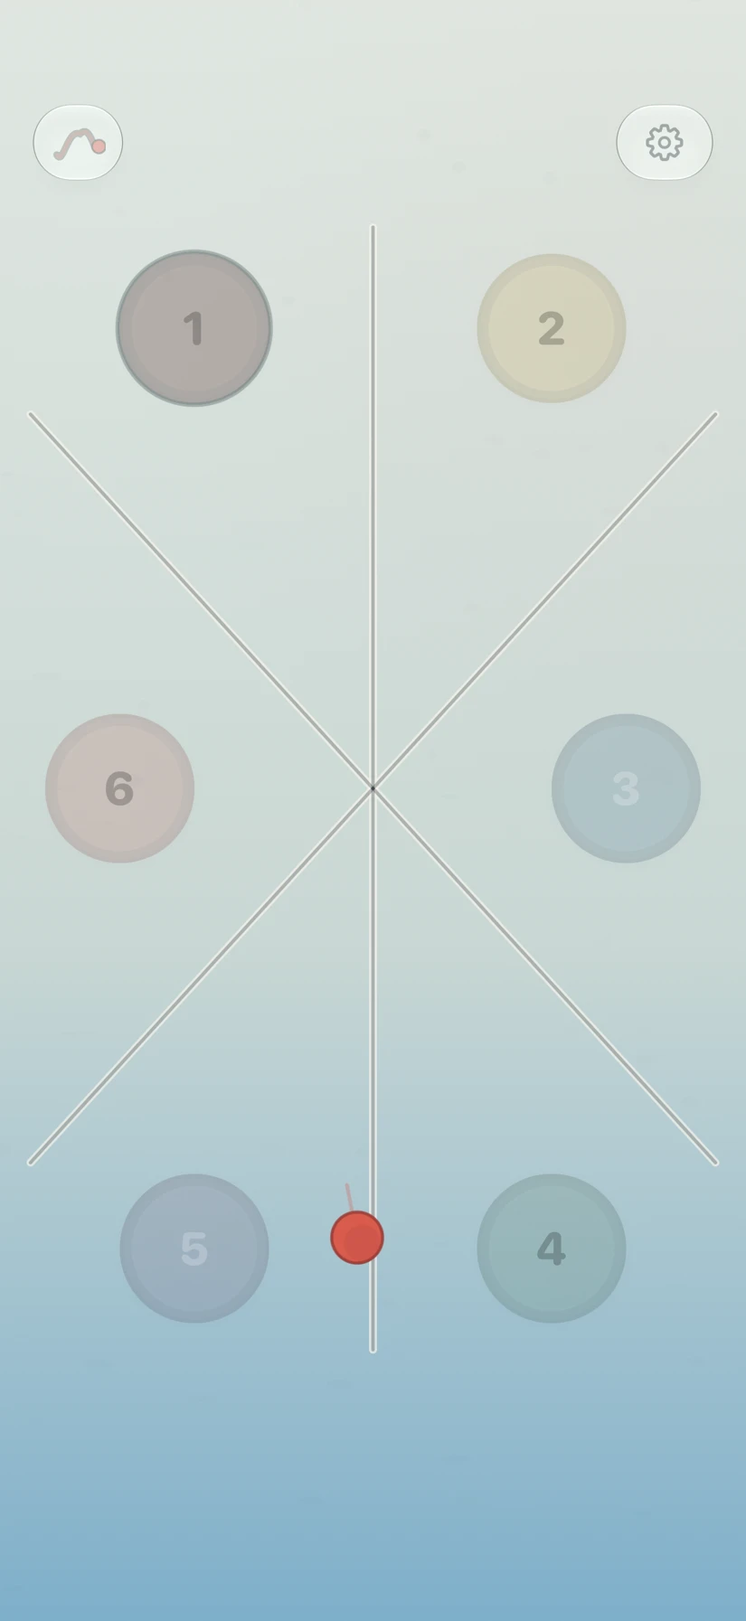
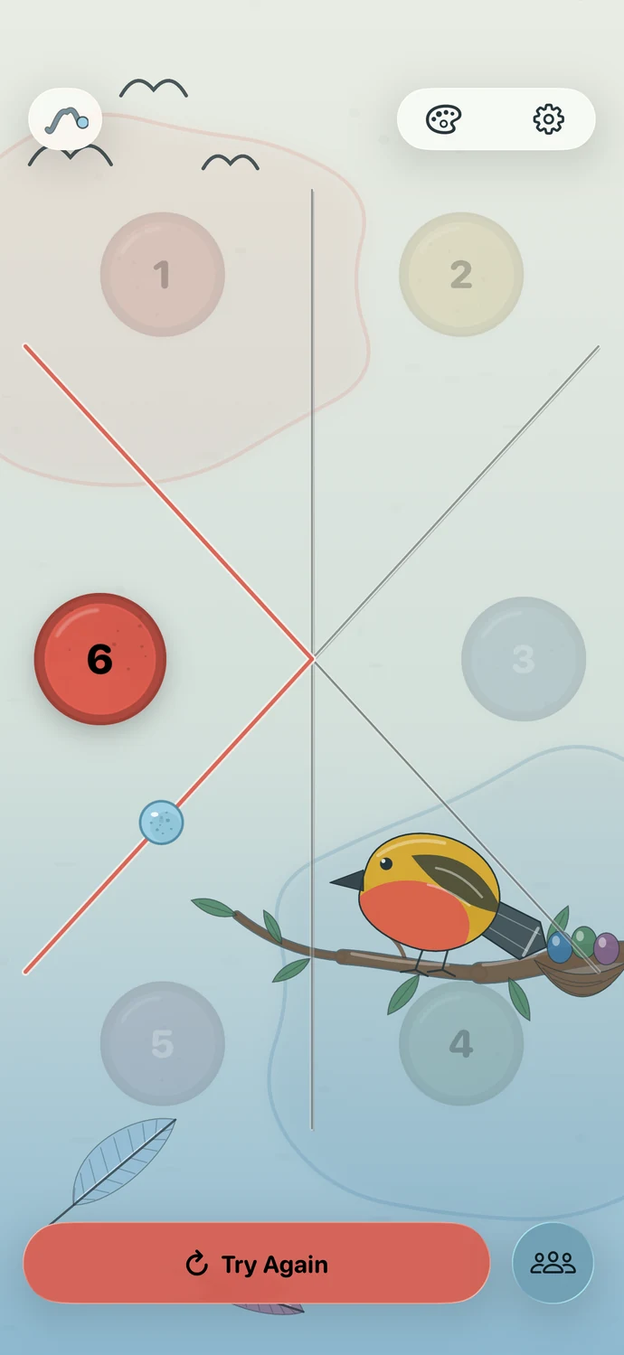
Refresh Who’s First features and native screenshots

diff --git a/site/whos-first/index.html b/site/whos-first/index.html
@@ -1,6 +1,10 @@
 <!DOCTYPE html>
 
-<html lang="en"><head><meta charset="utf-8"/><meta content="width=device-width, initial-scale=1" name="viewport"/><title>Who’s First? | Choose your first player</title><meta content="Quickly and fairly choose who goes first. Pick with fingers, taps, or Pinball, with options for larger groups. Free. No subscription." name="description"/><link href="https://brianrenshaw.app/whos-first/" rel="canonical"/><meta content="website" property="og:type"/><meta content="Who’s First? | Choose your first player" property="og:title"/><meta content="Choose who goes first. Get on with the game. A free, fair first-player picker with options for larger groups. No subscription." property="og:description"/><meta content="https://brianrenshaw.app/whos-first/" property="og:url"/><meta content="https://brianrenshaw.app/whos-first/assets/icon-native.png" property="og:image"/><link href="/whos-first/assets/icon-native.png" rel="icon"/><link href="/whos-first/assets/site.css" rel="stylesheet"/><link href="/assets/family.css" rel="stylesheet"/><link href="/assets/product-preview.css" rel="stylesheet"/><script defer="" src="/assets/product-preview.js"></script></head><body class="app-chooser"><a class="skip-link" href="#main">Skip to content</a><header class="family-header"><a class="family-brand" href="/whos-first/"><img alt="" height="36" src="/whos-first/assets/icon-native.png" width="36"/>Who’s First?</a><nav aria-label="Main navigation"><a class="portfolio-home-link" href="/">← Brian’s homepage</a><a href="/whos-first/support/">Support</a></nav></header><main class="wf-page" id="main" tabindex="-1"><section class="wf-hero"><div><img alt="Who’s First? Five Seats, One Table app icon" class="wf-icon" height="88" src="assets/icon-native.png" width="88"/><p class="eyebrow">Free. No subscription.</p><h1>Choose who goes first.<br/>Get on with the game.</h1><p class="wf-lead">Quickly and fairly pick your first player. Use fingers on the screen for up to five people, or choose a mode with room for a larger group.</p><div aria-hidden="true" class="wf-dots"><i></i><i></i><i></i><i></i><i></i></div><a class="wf-store" href="https://apps.apple.com/app/id6806757289">Download on the App Store <span aria-hidden="true">↗</span></a><p class="wf-meta">For iPhone and iPad · iOS 26 or later<br/>No accounts, ads, or tracking.</p></div><figure class="wf-hero-art"><img alt="The current Who’s First? app: colored participant rings on its watercolor board" height="1500" src="assets/chooser-current.webp" width="690"/><figcaption>Chooser · four fingers, one fair choice.</figcaption></figure></section>
-<section aria-labelledby="modes-title" class="wf-modes"><div class="wf-section-intro"><p class="eyebrow">A choice for your whole group</p><h2 id="modes-title">Five fingers or a bigger group.</h2><p>Start with Chooser for two to five people. For a larger group, use Tap In or Pinball from the mode menu.</p></div><div class="product-preview mode-preview" data-product-preview=""><div aria-label="Mode preview" class="preview-tabs" data-preview-tabs="" hidden=""><button aria-controls="mode-preview-chooser" id="mode-preview-tab-chooser" type="button">Chooser</button><button aria-controls="mode-preview-tap" id="mode-preview-tab-tap" type="button">Tap In</button><button aria-controls="mode-preview-pinball" id="mode-preview-tab-pinball" type="button">Pinball</button></div><div data-preview-stage=""><div data-preview-panel="" id="mode-preview-chooser"><article class="wf-mode"><span class="mode-label">01 · Fingers down</span><h3>Chooser</h3><p>Two to five people hold a finger on the screen. After a short buildup, one ring marks who goes first.</p><figure><img alt="Four colorful rings in Chooser" height="1500" loading="lazy" src="assets/chooser-current.webp" width="690"/></figure></article></div><div data-preview-panel="" id="mode-preview-tap"><article class="wf-mode"><span class="mode-label">02 · Take your turn</span><h3>Tap In</h3><p>Each person taps once to join. When everyone’s in, pick from the group. Room for up to 50 players.</p><figure><img alt="Numbered player pieces in Tap In" height="1500" loading="lazy" src="assets/tap-in-current.webp" width="690"/></figure></article></div><div data-preview-panel="" id="mode-preview-pinball"><article class="wf-mode"><span class="mode-label">03 · Give it a flick</span><h3>Pinball</h3><p>Two to twelve people tap near their seats. Flick the ball and follow the bounces to your first player. Every seat has an equal chance.</p><figure><img alt="Pinball’s numbered seats and divided playing surface" height="1500" loading="lazy" src="assets/pinball-current.webp" width="690"/></figure></article></div></div></div></section>
-<section aria-labelledby="worlds-title" class="wf-worlds"><div><p class="eyebrow">Eight visual worlds</p><h2 id="worlds-title">Choose a theme for each mode.</h2><p>Soft watercolor, jewel colors, warm parchment, and more. Each world changes the board and its pieces together.</p><div aria-hidden="true" class="wf-palette"><span style="background:#C9D7D4"></span><span style="background:#A5353C"></span><span style="background:#25A047"></span><span style="background:#dcc394"></span><span style="background:#bb7551"></span><span style="background:#648858"></span><span style="background:#251a2d"></span><span style="background:#e7b54a"></span></div><p>Choose a look you enjoy in Settings. The app stays focused on picking your first player.</p></div><figure><img alt="The app’s eight visual worlds in Settings" height="1500" loading="lazy" src="assets/worlds-current.webp" width="690"/></figure></section>
-<section class="wf-closing"><p class="eyebrow">Ready for game night</p><h2>Choose your first player.</h2><p>Free, with no subscription, accounts, or ads. Works offline, with support for VoiceOver, larger text, and reduced motion.</p><a class="wf-store" href="https://apps.apple.com/app/id6806757289">Download on the App Store <span aria-hidden="true">↗</span></a></section></main><footer class="family-footer"><span>© 2026 Brian Renshaw</span><nav aria-label="Footer"><a class="portfolio-home-link" href="/">← Brian’s homepage</a><a href="/whos-first/support/">Support</a><a href="/whos-first/privacy/">Privacy</a><a href="mailto:contact@brianrenshaw.app">Contact</a></nav></footer></body></html>
+<html lang="en"><head><meta charset="utf-8"/><meta content="width=device-width, initial-scale=1" name="viewport"/><title>Who’s First? | Choose your first player</title><meta content="Choose who goes first with fingers, taps, or Pinball. Fourteen illustrated worlds, groups of up to 50, and quick mode shortcuts. Free for iPhone and iPad." name="description"/><link href="https://brianrenshaw.app/whos-first/" rel="canonical"/><meta content="website" property="og:type"/><meta content="Who’s First? | Choose your first player" property="og:title"/><meta content="Three ways to pick your first player, fourteen illustrated worlds, and room for up to 50 people. Free for iPhone and iPad. No subscription." property="og:description"/><meta content="https://brianrenshaw.app/whos-first/" property="og:url"/><meta content="https://brianrenshaw.app/whos-first/assets/icon-native.png" property="og:image"/><link href="/whos-first/assets/icon-native.png" rel="icon"/><link href="/whos-first/assets/site.css" rel="stylesheet"/><link href="/assets/family.css" rel="stylesheet"/><link href="/assets/product-preview.css" rel="stylesheet"/><script defer="" src="/assets/product-preview.js"></script></head><body class="app-chooser"><a class="skip-link" href="#main">Skip to content</a><header class="family-header"><a class="family-brand" href="/whos-first/"><img alt="" height="36" src="/whos-first/assets/icon-native.png" width="36"/>Who’s First?</a><nav aria-label="Main navigation"><a class="portfolio-home-link" href="/">← Brian’s homepage</a><a href="/whos-first/support/">Support</a></nav></header><main class="wf-page" id="main" tabindex="-1"><section class="wf-hero"><div><img alt="Who’s First? Five Seats, One Table app icon" class="wf-icon" height="88" src="assets/icon-native.png" width="88"/><p class="eyebrow">Free. No subscription.</p><h1>Choose who goes first.<br/>Get on with the game.</h1><p class="wf-lead">Fingers down, tap to join, or flick a pinball. Pick your first player fairly, with room for up to 50 people and fourteen illustrated worlds to suit your game night.</p><div aria-hidden="true" class="wf-dots"><i></i><i></i><i></i><i></i><i></i></div><a class="wf-store" href="https://apps.apple.com/app/id6806757289">Download on the App Store <span aria-hidden="true">↗</span></a><p class="wf-meta">For iPhone and iPad · iOS 26 or later<br/>No accounts, ads, or tracking.</p></div><figure class="wf-hero-art"><img alt="Chooser rings over the illustrated Wingspan Original board" height="1499" src="assets/chooser-current.webp" width="690"/><figcaption>Chooser · four fingers, one fair choice.</figcaption></figure></section>
+<section aria-labelledby="modes-title" class="wf-modes"><div class="wf-section-intro"><p class="eyebrow">A choice for your whole group</p><h2 id="modes-title">Three ways to get the game going.</h2><p>Hold a finger, take turns tapping, or flick the ball. Choose a mode from the menu to fit your group.</p></div><div class="product-preview mode-preview" data-product-preview=""><div aria-label="Mode preview" class="preview-tabs" data-preview-tabs="" hidden=""><button aria-controls="mode-preview-chooser" id="mode-preview-tab-chooser" type="button">Chooser</button><button aria-controls="mode-preview-tap" id="mode-preview-tab-tap" type="button">Tap In</button><button aria-controls="mode-preview-pinball" id="mode-preview-tab-pinball" type="button">Pinball</button></div><div data-preview-stage=""><div data-preview-panel="" id="mode-preview-chooser"><article class="wf-mode"><span class="mode-label">01 · Fingers down</span><h3>Chooser</h3><p>Two to five people hold a finger on the screen. After a short buildup, one ring marks who goes first.</p><figure><img alt="Four colorful rings in Chooser" height="1499" loading="lazy" src="assets/chooser-current.webp" width="690"/></figure></article></div><div data-preview-panel="" id="mode-preview-tap"><article class="wf-mode"><span class="mode-label">02 · Take your turn</span><h3>Tap In</h3><p>Each person taps once to join. When everyone’s in, pick from the group. Room for up to 50 players.</p><figure><img alt="Numbered player pieces in Tap In" height="1499" loading="lazy" src="assets/tap-in-current.webp" width="690"/></figure></article></div><div data-preview-panel="" id="mode-preview-pinball"><article class="wf-mode"><span class="mode-label">03 · Give it a flick</span><h3>Pinball</h3><p>Two to twelve people tap near their seats. Flick the ball and follow the bounces to your first player. Every seat has an equal chance.</p><figure><img alt="Pinball result highlighting the selected seat on the illustrated board" height="1499" loading="lazy" src="assets/pinball-current.webp" width="690"/></figure></article></div></div></div></section>
+<section aria-labelledby="worlds-title" class="wf-worlds">
+<div><h2 id="worlds-title">Fourteen worlds. A different feel for every game night.</h2><p>Birds and watercolor, a lantern-lit tree, stained glass, dragons, or an ocean that fades into the deep. Each world brings its own illustrated board, player pieces, and Pinball details.</p><p>Tap the palette button to open Worlds. Pick a board and you’re straight back to your game. The same world carries across all three modes.</p><p>For a surprise, tap with three fingers when a choice isn’t in progress. A different world appears without clearing your group. VoiceOver offers the same option through Shuffle colors.</p></div>
+<div class="wf-world-details"><figure><img alt="Illustrated world previews in Settings, including Wingspan, Everdell, and Res Arcana" height="1499" loading="lazy" src="assets/worlds-current.webp" width="690"/><figcaption>A look inside the world collection in Settings.</figcaption></figure><div class="wf-world-list"><h3>Find your favorite world</h3><ul><li>Wingspan Original</li><li>Wingspan Asia</li><li>Wingspan Americas</li><li>Nidavellir</li><li>Concordia</li><li>Everdell</li><li>Lizard Wizard</li><li>Leaders</li><li>Res Arcana</li><li>Everdell Emerland</li><li>Sagrada</li><li>Wyrmspan</li><li>Harmonies</li><li>Finspan</li></ul></div></div>
+</section>
+<section aria-labelledby="ready-title" class="wf-modes"><div class="wf-section-intro"><h2 id="ready-title">Less setup. Another round.</h2></div><div class="wf-feature-grid"><article><h3>Keep your group</h3><p>After a Tap In or Pinball result, tap the background to choose again with the same players. In Tap In, Undo removes an accidental extra entry.</p></article><article><h3>Start in your favorite mode</h3><p>Make the current mode your launch default in the mode menu. Or use Open Chooser, Open Tap In, and Open Pinball in Shortcuts to jump straight into a session.</p></article><article><h3>Make yourself at home</h3><p>A short welcome introduces all three modes. Replay it in Settings, or open How It Works whenever you need a reminder.</p></article></div></section>
+<section class="wf-closing"><p class="eyebrow">Ready for game night</p><h2>Choose your first player.</h2><p>Free, with no subscription, accounts, or ads. Works offline on iPhone and iPad, with spoken VoiceOver results, larger text, reduced motion, increased contrast, and cues that don’t rely on color alone.</p><a class="wf-store" href="https://apps.apple.com/app/id6806757289">Download on the App Store <span aria-hidden="true">↗</span></a></section></main><footer class="family-footer"><span>© 2026 Brian Renshaw</span><nav aria-label="Footer"><a class="portfolio-home-link" href="/">← Brian’s homepage</a><a href="/whos-first/support/">Support</a><a href="/whos-first/privacy/">Privacy</a><a href="mailto:contact@brianrenshaw.app">Contact</a></nav></footer></body></html>

diff --git a/site/whos-first/support/index.html b/site/whos-first/support/index.html
@@ -1,2 +1,2 @@
 <!DOCTYPE html>
-<html lang="en"><head><meta charset="utf-8"/><meta content="width=device-width, initial-scale=1" name="viewport"/><title>Support — Who’s First?</title><meta content="Help with Who’s First?: the Chooser, Tap In, and Pinball modes, visual worlds, and accessibility. Read the guide or email contact@brianrenshaw.app." name="description"/><link href="https://brianrenshaw.app/whos-first/support/" rel="canonical"/><meta content="website" property="og:type"/><meta content="Support | Who’s First?" property="og:title"/><meta content="Help with the Chooser, Tap In, and Pinball modes, visual worlds, and accessibility." property="og:description"/><meta content="https://brianrenshaw.app/whos-first/support/" property="og:url"/><meta content="https://brianrenshaw.app/whos-first/assets/icon-native.png" property="og:image"/><meta content="Who’s First? app icon" property="og:image:alt"/><link href="/whos-first/assets/icon-native.png" rel="icon"/><link href="/whos-first/assets/site.css" rel="stylesheet"/><link href="/assets/family.css" rel="stylesheet"/></head><body class="app-chooser"><a class="skip-link" href="#main">Skip to content</a><header class="family-header"><a class="family-brand" href="/whos-first/"><img alt="" height="36" src="/whos-first/assets/icon-native.png" width="36"/>Who’s First?</a><nav aria-label="Main navigation"><a class="portfolio-home-link" href="/">← Brian’s homepage</a><a href="/whos-first/support/">Support</a></nav></header><main class="document" id="main" tabindex="-1"><p class="eyebrow">Who’s First? for iPhone</p><h1>Let’s get you started.</h1><p>Who’s First? requires iOS 26 or later. Open the menu in the upper-left to choose a mode. Settings is in the upper-right.</p><h2>Chooser</h2><ol><li>Place the phone on a stable surface.</li><li>Have at least two people hold one finger on the screen.</li><li>Keep your fingers down through the short buildup. One emphasized ring marks who goes first.</li><li>Lift your fingers and touch again for another round.</li></ol><p>The current app makes its choice about two seconds after the last person joins.</p><h2>Tap In</h2><ol><li>Each person taps once to add a numbered entry.</li><li>When everyone has joined, tap Pick. You need at least two entries and can include up to 50.</li><li>The emphasized number goes first. Tap the background after a result to keep the group and choose again.</li></ol><p>Use Undo if someone joined twice. Clear asks before removing the group.</p><h2>Pinball</h2><ol><li>Put the phone flat. Between 2 and 12 people tap near their seats.</li><li>Flick the ball across the board.</li><li>Follow the bounces to the selected seat. Each seat has equal odds.</li></ol><p>The ball follows your flick. A wall may visibly flex once to keep the outcome fair. Tap the background after the result to keep the seats for another flick.</p><h2>Make it yours</h2><p>Settings offers eight visual worlds. A three-finger tap changes to a different world when the screen is safe, without clearing your group. In the mode menu, you can also make the current mode your launch default.</p><h2>Welcome and accessibility</h2><p>The introduction explains all three modes. Replay it with Show Welcome Again in Settings, or open How It Works for the guide. VoiceOver provides spoken results and a Shuffle colors action. Larger text, Reduce Motion, Reduce Transparency, Increase Contrast, and Differentiate Without Color are supported.</p><h2>Troubleshooting</h2><p>For Chooser, keep at least two fingers down. For Tap In or Pinball, add at least two players before choosing. Switching modes clears the current group; the menu is disabled during a choice. Leaving the app or rotating during Pinball cancels the current run while keeping the seats.</p><h2>Get in touch</h2><p>Email <a href="mailto:contact@brianrenshaw.app">contact@brianrenshaw.app</a> with your iPhone model, app version, and what happened.</p><p><a href="../privacy/">Read the privacy policy →</a></p></main><footer class="family-footer"><span>© 2026 Brian Renshaw</span><nav aria-label="Footer"><a class="portfolio-home-link" href="/">← Brian’s homepage</a><a href="/whos-first/support/">Support</a><a href="/whos-first/privacy/">Privacy</a><a href="mailto:contact@brianrenshaw.app">Contact</a></nav></footer></body></html>
+<html lang="en"><head><meta charset="utf-8"/><meta content="width=device-width, initial-scale=1" name="viewport"/><title>Support — Who’s First?</title><meta content="Help with Who’s First?: the Chooser, Tap In, and Pinball modes, visual worlds, and accessibility. Read the guide or email contact@brianrenshaw.app." name="description"/><link href="https://brianrenshaw.app/whos-first/support/" rel="canonical"/><meta content="website" property="og:type"/><meta content="Support | Who’s First?" property="og:title"/><meta content="Help with the Chooser, Tap In, and Pinball modes, visual worlds, and accessibility." property="og:description"/><meta content="https://brianrenshaw.app/whos-first/support/" property="og:url"/><meta content="https://brianrenshaw.app/whos-first/assets/icon-native.png" property="og:image"/><meta content="Who’s First? app icon" property="og:image:alt"/><link href="/whos-first/assets/icon-native.png" rel="icon"/><link href="/whos-first/assets/site.css" rel="stylesheet"/><link href="/assets/family.css" rel="stylesheet"/></head><body class="app-chooser"><a class="skip-link" href="#main">Skip to content</a><header class="family-header"><a class="family-brand" href="/whos-first/"><img alt="" height="36" src="/whos-first/assets/icon-native.png" width="36"/>Who’s First?</a><nav aria-label="Main navigation"><a class="portfolio-home-link" href="/">← Brian’s homepage</a><a href="/whos-first/support/">Support</a></nav></header><main class="document" id="main" tabindex="-1"><p class="eyebrow">Who’s First? for iPhone and iPad</p><h1>Let’s get you started.</h1><p>Who’s First? works on iPhone and iPad with iOS 26 or iPadOS 26 or later. Open the menu in the upper-left to choose a mode. The palette button opens Worlds, and the gear opens Settings.</p><h2>Chooser</h2><ol><li>Place your device on a stable surface.</li><li>Have at least two people hold one finger on the screen.</li><li>Keep your fingers down through the short buildup. One emphasized ring marks who goes first.</li><li>Lift your fingers and touch again for another round.</li></ol><p>The current app makes its choice about two seconds after the last person joins.</p><h2>Tap In</h2><ol><li>Each person taps once to add a numbered entry.</li><li>When everyone has joined, tap Pick. You need at least two entries and can include up to 50.</li><li>The emphasized number goes first. Tap the background after a result to keep the group and choose again.</li></ol><p>Use Undo if someone joined twice. Clear asks before removing the group.</p><h2>Pinball</h2><ol><li>Put your device flat. Between 2 and 12 people tap near their seats.</li><li>Flick the ball across the board.</li><li>Follow the bounces to the selected seat. Each seat has equal odds.</li></ol><p>The ball follows your flick. A wall may visibly flex once to keep the outcome fair. Tap the background after the result to keep the seats for another flick.</p><h2>Make it yours</h2><p>Choose from fourteen illustrated worlds, including Wyrmspan, Harmonies, and Finspan. Tap the palette button to open the full-height Worlds picker, then tap a board to apply it and close the picker. You can also choose a world in Settings. Your chosen world carries across all three modes.</p><p>A three-finger tap changes to a different world when no choice is in progress, without clearing your group. The new world’s name appears briefly. With VoiceOver, use the Shuffle colors action instead.</p><h2>Launch defaults and Shortcuts</h2><p>In the mode menu, make the current mode your launch default. The Open Chooser, Open Tap In, and Open Pinball App Shortcuts open a particular mode for that session without changing your saved default. Switching modes clears the current group.</p><h2>Welcome and accessibility</h2><p>The introduction explains all three modes. Replay it with Show Welcome Again in Settings, or open How It Works for the guide. VoiceOver provides spoken results and a Shuffle colors action. Larger text, Reduce Motion, Reduce Transparency, Increase Contrast, and Differentiate Without Color are supported.</p><h2>Troubleshooting</h2><p>For Chooser, keep at least two fingers down. For Tap In or Pinball, add at least two players before choosing. Switching modes clears the current group; the menu is disabled during a choice. Leaving the app or rotating during Pinball cancels the current run while keeping the seats.</p><h2>Get in touch</h2><p>Email <a href="mailto:contact@brianrenshaw.app">contact@brianrenshaw.app</a> with your iPhone or iPad model, app version, and what happened.</p><p><a href="../privacy/">Read the privacy policy →</a></p></main><footer class="family-footer"><span>© 2026 Brian Renshaw</span><nav aria-label="Footer"><a class="portfolio-home-link" href="/">← Brian’s homepage</a><a href="/whos-first/support/">Support</a><a href="/whos-first/privacy/">Privacy</a><a href="mailto:contact@brianrenshaw.app">Contact</a></nav></footer></body></html>

diff --git a/site/whos-first/privacy/index.html b/site/whos-first/privacy/index.html
@@ -2,7 +2,7 @@
 <html lang="en"><head><meta charset="utf-8"/><meta content="width=device-width, initial-scale=1" name="viewport"/><title>Privacy policy — Who’s First?</title><meta content="Privacy policy for Who’s First?" name="description"/><link href="https://brianrenshaw.app/whos-first/privacy/" rel="canonical"/><meta content="website" property="og:type"/><meta content="Privacy policy" property="og:title"/><meta content="Privacy policy" property="og:description"/><meta content="https://brianrenshaw.app/whos-first/privacy/" property="og:url"/><meta content="https://brianrenshaw.app/whos-first/assets/icon-native.png" property="og:image"/><link href="/whos-first/assets/icon-native.png" rel="icon"/><link href="/whos-first/assets/site.css" rel="stylesheet"/><link href="/assets/family.css" rel="stylesheet"/></head><body class="app-chooser"><a class="skip-link" href="#main">Skip to content</a><header class="family-header"><a class="family-brand" href="/whos-first/"><img alt="" height="36" src="/whos-first/assets/icon-native.png" width="36"/>Who’s First?</a><nav aria-label="Main navigation"><a class="portfolio-home-link" href="/">← Brian’s homepage</a><a href="/whos-first/support/">Support</a></nav></header><main class="document" id="main" tabindex="-1">
 <p class="eyebrow">Who's First?</p>
 <h1>Privacy Policy</h1>
-<p class="updated">Updated September 30, 2026</p>
+<p class="updated">Updated November 28, 2026</p>
 <div class="callout">
 <p><strong>Who's First? does not collect your data.</strong> The app has no accounts, ads, analytics, or tracking.</p>
 </div>
@@ -10,13 +10,13 @@
 <p>In Chooser, finger locations, temporary pointer identifiers, and ring colors are processed in memory so the app can draw a ring beneath each finger and choose one at random.</p>
 <p>In Tap In, each tap creates a temporary numbered entry with a color, tap position, and internal entry identifier. The number does not identify a person, and the app never asks for a name or contact information. Tap In entries exist only in the running app for the current group. Undo removes the newest entry; Clear and New group remove the group; reloading or closing the app removes everything.</p>
 <p>In Pinball, temporary seat numbers and tap positions define equal-area regions. Your flick supplies a starting point, direction, and speed. Secure on-device randomness selects a seat with equal probability. The app calculates the reflected path and may visibly flex the first wall to guide the ball into the selected region. Seats, flicks, paths, and results are temporary and disappear when the app closes.</p>
-<p>None of this temporary participant or result data is written to persistent storage or transmitted. The native app stores only your chosen launch mode, selected visual world, which one-time introductions and tips you have seen, and a nonpersonal marker recording that its one-time launch-default migration has run, in the iPhone's local preferences. Starting with version 1.3, it also keeps a simple count of finished choices so it can show one tip about changing visual worlds; the count stops updating once that tip appears. These settings do not contain participant data, saved groups, results, or any record of who was chosen.</p>
+<p>None of this temporary participant or result data is written to persistent storage or transmitted. The native app stores only your chosen launch mode, selected visual world, which one-time introductions and tips you have seen, and a nonpersonal marker recording that its one-time launch-default migration has run, in your device’s local preferences. Starting with version 1.3, it also keeps a simple count of finished choices so it can show one tip about changing visual worlds; the count stops updating once that tip appears. These settings do not contain participant data, saved groups, results, or any record of who was chosen.</p>
 <h2>On-device features</h2>
 <p>Random selection, numbered-entry management, Pinball geometry and path calculation, animation, sound, and haptic feedback happen entirely on your device. The native iOS app uses bundled files and makes no automatic network contact. Its Open Chooser, Open Tap In, and Open Pinball App Shortcuts—and the matching <code>whosfirst://mode/...</code> links—process only the requested session mode on your device. They do not include participant data, transmit app data, or change your saved launch default. A public link or support action opens only when you explicitly select it.</p>
 <h2>Data sharing and retention</h2>
 <p>Because the app does not collect participant or result data, it has no such data to share, sell, retain, or delete. The preferences, tip markers, choice count, and nonpersonal migration marker described above remain only on your device until you change them or remove the app's local data. Who's First? does not use advertising identifiers or track activity across other apps or websites.</p>
 <h2>Website hosting</h2>
-<p>This website and public policy are hosted by GitHub Pages. When you visit them, GitHub may process ordinary network and server-log information under the <a href="https://docs.github.com/en/site-policy/privacy-policies/github-general-privacy-statement">GitHub General Privacy Statement</a>. That hosting activity is separate from the native iPhone app.</p>
+<p>This website and public policy are hosted by Cloudflare Pages. When you visit them, Cloudflare may process ordinary network and server-log information under the <a href="https://www.cloudflare.com/privacypolicy/">Cloudflare Privacy Policy</a>. That hosting activity is separate from the native iPhone and iPad app.</p>
 <h2>Questions</h2>
 <p>For privacy questions, email <a href="mailto:contact@brianrenshaw.app">contact@brianrenshaw.app</a> or use the <a href="/whos-first/support/">Who's First? support page</a>.</p>
 </main><footer class="family-footer"><span>© 2026 Brian Renshaw</span><nav aria-label="Footer"><a class="portfolio-home-link" href="/">← Brian’s homepage</a><a href="/whos-first/support/">Support</a><a href="/whos-first/privacy/">Privacy</a><a href="mailto:contact@brianrenshaw.app">Contact</a></nav></footer></body></html>

diff --git a/site/whos-first/assets/site.css b/site/whos-first/assets/site.css
@@ -3,3 +3,8 @@
 body{font-family:ui-rounded,-apple-system,BlinkMacSystemFont,"Segoe UI",sans-serif;background:var(--bg);color:var(--ink);line-height:1.6}a{color:var(--accent);text-underline-offset:4px}h1,h2,h3,p{margin-top:0}h1,h2,h3{letter-spacing:-.045em;line-height:1.1}h1{font-size:clamp(50px,6.5vw,88px);font-weight:750;margin-bottom:24px}h2{font-size:clamp(30px,4vw,46px);font-weight:700}.eyebrow{font-size:11px;letter-spacing:.14em;text-transform:uppercase;font-weight:700;margin-bottom:22px}.family-header{background:transparent}.family-header .family-brand{color:var(--ink)}.wf-page{max-width:1240px;padding:0 clamp(20px,4vw,48px);margin:auto}.wf-hero{display:grid;grid-template-columns:1.1fr .9fr;gap:64px;align-items:center;padding:60px 0 76px}.wf-icon{width:88px;height:88px;margin-bottom:26px}.wf-lead{font-size:21px;line-height:1.55;max-width:32ch;color:var(--muted)}.wf-store{display:inline-flex;align-items:center;gap:24px;padding:15px 24px;border-radius:999px;background:var(--ink);color:#F7F4EC;text-decoration:none;font-size:15px;font-weight:600;margin:10px 0 18px}.wf-store:hover{background:#3b515a}.wf-meta{font-size:12px;color:var(--muted)}.wf-hero-art{margin:0;position:relative;background:linear-gradient(170deg,#DFE6E0,#C9D7D4 58%,#7EAFCA);border-radius:40px;padding:28px;box-shadow:inset 0 0 0 1px #27363b10}.wf-hero-art img{display:block;width:auto;max-height:580px;margin:auto;border-radius:28px;box-shadow:0 20px 50px #27363b24}.wf-hero-art figcaption{text-align:center;font-size:12px;color:#27363B;margin-top:20px}.wf-dots{display:flex;gap:10px;margin:22px 0}.wf-dots i{width:12px;height:12px;border-radius:50%;background:var(--coral)}.wf-dots i:nth-child(2){background:var(--saffron)}.wf-dots i:nth-child(3){background:var(--sky)}.wf-dots i:nth-child(4){background:var(--leaf)}.wf-dots i:nth-child(5){background:var(--plum)}.wf-modes{border-top:1px solid var(--line);padding:56px 0}.wf-section-intro{max-width:580px;margin-bottom:36px}.wf-section-intro p{color:var(--muted)}.wf-mode-grid{display:grid;grid-template-columns:repeat(3,minmax(0,1fr));gap:28px}.wf-mode{min-width:0}.wf-mode h3{font-size:28px;margin:24px 0 12px}.wf-mode p{font-size:15px;color:var(--muted);min-height:74px}.wf-mode figure{margin:0;background:#c9d7d4;padding:16px;border-radius:24px}.wf-mode img{width:100%;display:block;border-radius:15px}.wf-mode .mode-label{font-size:11px;font-weight:700;letter-spacing:.1em;text-transform:uppercase}.wf-worlds{display:grid;grid-template-columns:1.15fr .85fr;gap:64px;align-items:center;padding:56px 0;border-top:1px solid var(--line)}.wf-worlds p{max-width:45ch;color:var(--muted)}.wf-worlds figure{margin:0 auto;max-width:270px}.wf-worlds img{display:block;width:100%;border-radius:22px}.wf-palette{display:grid;grid-template-columns:repeat(4,minmax(0,1fr));gap:12px;margin:28px 0}.wf-palette span{height:48px;border-radius:12px;border:1px solid #27363b22}.wf-closing{background:var(--surface);border-radius:28px;padding:40px;margin:28px 0}.wf-closing p{max-width:58ch;color:var(--muted)}.document .callout{background:var(--surface);padding:20px;border-radius:16px}.document a{color:var(--accent)}
 @media(max-width:760px){.wf-hero,.wf-worlds{grid-template-columns:1fr;gap:28px;padding:40px 0}.wf-hero-art{padding:22px}.wf-hero-art img{max-height:510px}.wf-mode-grid{grid-template-columns:1fr;gap:38px}.wf-mode{display:grid;grid-template-columns:1fr 1fr;gap:18px;align-items:center}.wf-mode figure{grid-column:2;grid-row:1/4;padding:10px}.wf-mode h3{margin:0}.wf-mode p{min-height:0;grid-column:1;font-size:14px}.wf-mode .mode-label{grid-column:1;align-self:end}.wf-worlds figure{max-width:270px}.wf-closing{padding:26px}.wf-lead{font-size:19px}.wf-icon{width:72px;height:72px}.wf-modes{padding:36px 0}.wf-mode h3{font-size:26px}}
 @media(prefers-color-scheme:dark){:root{color-scheme:dark;--bg:#17282d;--ink:#F7F4EC;--muted:#c4d3d5;--surface:#243b42;--accent:#ffaea2;--line:#c9d7d433}.wf-store{color:#17282d}.wf-store:hover{background:#dfe6e0}.wf-mode figure{background:#30494f}.wf-worlds img{border:1px solid #dfe6e033}}
+
+.wf-world-list{background:var(--surface);padding:28px;border-radius:24px}.wf-world-list h3{font-size:24px;letter-spacing:-.025em}.wf-world-list ul{display:grid;grid-template-columns:repeat(2,minmax(0,1fr));gap:12px 20px;margin:0;padding:0;list-style:none;font-size:15px}.wf-world-list li{padding-bottom:10px;border-bottom:1px solid var(--line)}.wf-feature-grid{display:grid;grid-template-columns:repeat(3,minmax(0,1fr));gap:32px}.wf-feature-grid h3{font-size:24px;letter-spacing:-.025em}.wf-feature-grid p{color:var(--muted)}
+@media(max-width:760px){.wf-feature-grid{grid-template-columns:1fr;gap:20px}.wf-world-list{padding:22px}}
+
+.wf-world-details{display:grid;gap:28px}.wf-world-details figcaption{margin-top:14px;text-align:center;font-size:13px;color:var(--muted)}

diff --git a/site/index.html b/site/index.html
@@ -104,7 +104,7 @@
       </li>
 <li data-category="ios">
         <img src="/whos-first/assets/icon-native.png" width="50" height="50" loading="lazy" alt="">
-        <div><h4><a href="/whos-first/">Who’s First?</a></h4><small>iPhone &amp; iPad</small><p>Pick a starting player by putting your fingers on the screen.</p><div class="project-actions"><a class="get-project" href="https://apps.apple.com/app/id6806757289" aria-label="Who’s First?: Download on the App Store">Download on the App Store</a> <a class="learn" href="/whos-first/" aria-label="Learn more about Who’s First?">Learn more <span aria-hidden="true">↗</span></a></div></div>
+        <div><h4><a href="/whos-first/">Who’s First?</a></h4><small>iPhone &amp; iPad</small><p>Pick your first player with fingers, taps, or Pinball. Fourteen illustrated worlds, with room for larger groups.</p><div class="project-actions"><a class="get-project" href="https://apps.apple.com/app/id6806757289" aria-label="Who’s First?: Download on the App Store">Download on the App Store</a> <a class="learn" href="/whos-first/" aria-label="Learn more about Who’s First?">Learn more <span aria-hidden="true">↗</span></a></div></div>
       </li>
 <li data-category="ios">
         <img src="/canceled/assets/icon.png" width="50" height="50" loading="lazy" alt="">

diff --git a/MESSAGING.md b/MESSAGING.md
@@ -68,7 +68,7 @@ The Mobbin-informed homepage retains “Apps and tools by Brian Renshaw.” and 
 
 **Headline:** Choose who goes first. Get on with the game.
 
-**Supporting copy:** Quickly and fairly pick your first player. Use fingers on the screen for up to five people, or choose a mode with room for a larger group.
+**Supporting copy:** Fingers down, tap to join, or flick a pinball. Pick your first player fairly, with room for up to 50 people and fourteen illustrated worlds to suit your game night.
 
 **Priority:** Choose the first player quickly and fairly. Include the whole group: Chooser for two to five fingers, Tap In for up to 50 people, Pinball for two to twelve seats.
 
@@ -560,3 +560,9 @@ Added at Brian's request at `/valetnotes/`, following the Decks layout with iPho
 
 
 **Use cases (Brian, October 22, 2026):** phone-call notes sent to Drafts, a running task inbox sent to a task manager at day's end, today's three things as a checklist, starting a longer piece, tracking project feedback, and collecting quotes from Safari. Position it as a companion to Drafts, Bear, Obsidian, iA Writer, and Ulysses: a place to start with a few dedicated spaces. Build 21 added Space Actions: each space sends to Drafts, Bear, Ulysses, iA Writer, Obsidian (including the daily note), its task app, or a Markdown folder, and Control–Option–Command–A runs them from any Mac app. Live Markdown hides syntax except where the cursor is. Say a send archives only after the app confirms the save; iA Writer sends are limited to 4,000 characters. The Safari quote capture is the iPhone and iPad share extension; the Mac has none.
+
+### Who’s First? feature refresh, November 28, 2026
+
+Verified the public App Store lookup reports version 1.4.1. Landing and support copy now cover fourteen illustrated worlds, the one-tap Worlds picker, three-finger shuffle and VoiceOver equivalent, repeat rounds, launch defaults, and App Shortcuts. The fifteenth world, 13 Dead End Drive, remains excluded: the app repository records version 1.5 as prepared but not submitted. Updated the homepage summary and corrected privacy hosting to Cloudflare Pages.
+
+Replaced all displayed screenshots with the native version 1.4 (22) captures from app commit 381645c, including the illustrated boards, palette button, Pinball result, and Settings world collection. The earlier asset documentation was stale; the source PNGs had already been refreshed. See site/whos-first/assets/SOURCES.md for exact mappings. Feature evidence: sibling chooser-web-app README.md and NativeWorldPickerSheet.swift / ChooserRootView.swift.

diff --git a/site/whos-first/assets/SOURCES.md b/site/whos-first/assets/SOURCES.md
@@ -1,2 +1,12 @@
-Icon: chooser-web-app/ios/App/App/AppIcon.icon, exported using Icon Composer.
-Screenshots: existing native build-18 App Store captures in chooser-web-app/app-store-assets/screenshots/iphone-6.9-inch, resized to WebP. Pinball uses 04-pinball-flight.png. A fresh build-20 simulator capture stalled; these are real native screenshots, not newly captured build-20 images.
+# Who’s First? website assets
+
+Icon: `chooser-web-app/ios/App/App/AppIcon.icon`, exported using Icon Composer.
+
+Screenshots refreshed November 28, 2026 from the native version 1.4 (22) capture set committed in sibling `chooser-web-app` at `381645c`. These show the illustrated boards and Worlds toolbar button also present in the live 1.4.1 release. Source directory: `app-store-assets/screenshots/iphone-6.9-inch/`.
+
+- `chooser-current.webp`: `01-chooser.png`
+- `tap-in-current.webp`: `02-tap-in.png`
+- `pinball-current.webp`: `05-pinball-result.png` (selected seat visible)
+- `worlds-current.webp`: `06-visual-worlds.png` (Settings collection, not the quick picker)
+
+Converted from 1320 × 2868 PNG to 690 × 1499 WebP, quality 88. No app content was altered. These replace the old build-18 website exports. The Settings image shows part of the scrollable collection, not all fourteen worlds at once.
